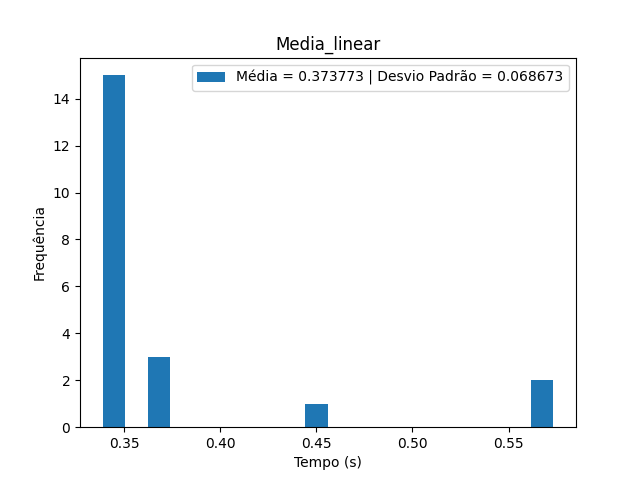
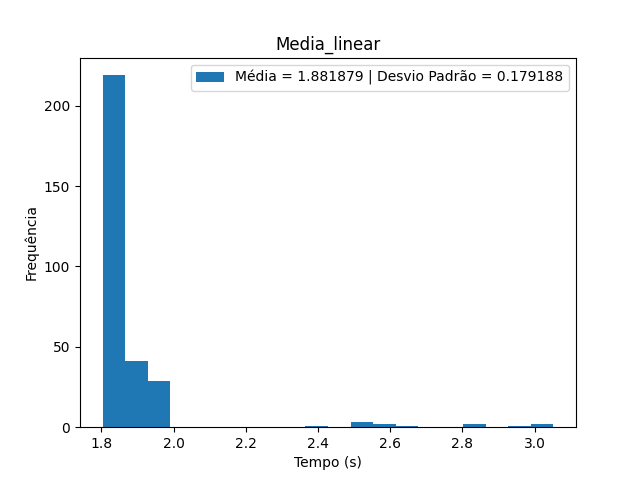
Tirei prints desnecessários | Mudei pra real time ao inves de user time

diff --git a/src/imageprocessing.c b/src/imageprocessing.c
@@ -20,11 +20,11 @@ imagem abrir_imagem(char *nome_do_arquivo) {
 
   bitmapIn = FreeImage_Load(FIF_JPEG, nome_do_arquivo, 0);
 
-  if (bitmapIn == 0) {
-    printf("Erro! Nao achei arquivo - %s\n", nome_do_arquivo);
-  } else {
-    printf("Arquivo lido corretamente!\n");
-   }
+  //if (bitmapIn == 0) {
+  //  printf("Erro! Nao achei arquivo - %s\n", nome_do_arquivo);
+  //} else {
+  //  printf("Arquivo lido corretamente!\n");
+  // }
 
   x = FreeImage_GetWidth(bitmapIn);
   y = FreeImage_GetHeight(bitmapIn);
@@ -61,7 +61,7 @@ void salvar_imagem(char *nome_do_arquivo, imagem *I) {
   FIBITMAP *bitmapOut;
   RGBQUAD color;
 
-  printf("Salvando imagem %d por %d...\n", I->width, I->height);
+ // printf("Salvando imagem %d por %d...\n", I->width, I->height);
   bitmapOut = FreeImage_Allocate(I->width, I->height, 24, 0, 0, 0);
 
    for (int i=0; i<I->width; i++) {

diff --git a/src/cronometro.c b/src/cronometro.c
@@ -17,8 +17,10 @@ void medir_tempo(void *(*funcao)(void *args), void *args) {
 
   timersub(&rt1, &rt0, &drt);
 
-  //printf("Tempo real: %ld.%06ld segundos\n", drt.tv_sec, drt.tv_usec);
-  printf("%f\n", (double)(ct1-ct0)/CLOCKS_PER_SEC);
+  // Real
+  printf("%ld.%06ld\n", drt.tv_sec, drt.tv_usec);
+  // Usr
+  //printf("%f\n", (double)(ct1-ct0)/CLOCKS_PER_SEC);
 }
 
 

diff --git a/src/blur_threads.c b/src/blur_threads.c
@@ -6,7 +6,7 @@
 #include <pthread.h>
 #include "cronometro.h"
 
-#define N 15
+#define N 5
 
 // Struct para guardar apenas 1 cor e a largura e altura dela
 typedef struct argument{

diff --git a/src/blur_process.c b/src/blur_process.c
@@ -8,7 +8,7 @@
 #include <pthread.h>
 #include "cronometro.h"
 
-#define N 15
+#define N 5
 
 
 // Struct para os argumentos da funcao medir_main

diff --git a/src/blur_linear.c b/src/blur_linear.c
@@ -4,7 +4,7 @@
 #include <stdlib.h>
 #include "cronometro.h"
 
-#define N 15
+#define N 5
 
 // Struct
 typedef struct arg{
